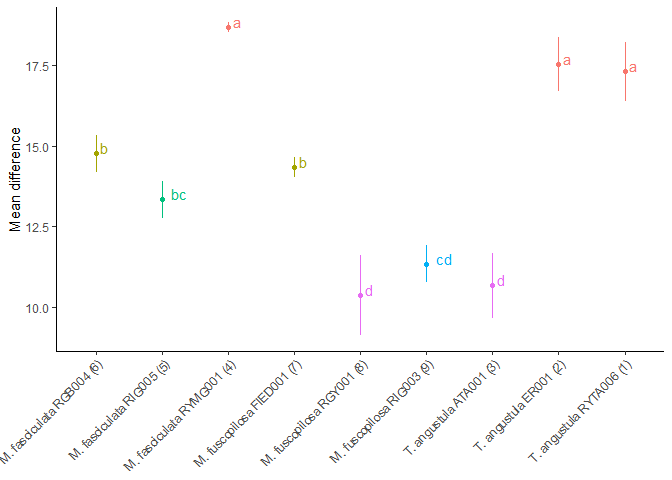
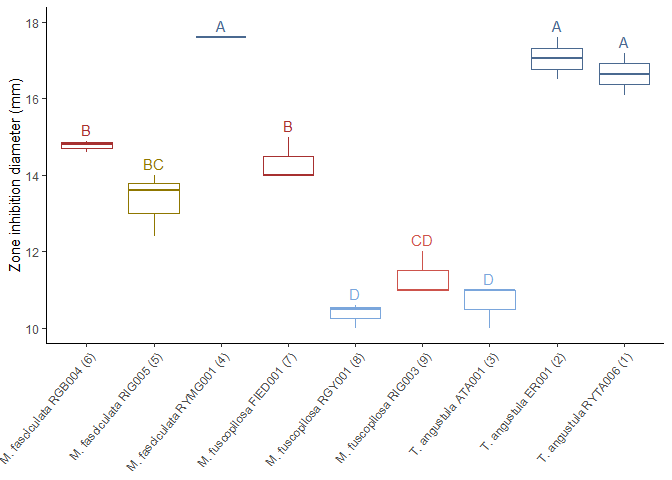
Antimicrobial update

diff --git a/Antimicrobial_activity-Statistics.md b/Antimicrobial_activity-Statistics.md
@@ -357,20 +357,21 @@ tukey_pm100 <- HSD.test(modelo_pm100, "all_bacteria$Group",
 
 ``` r
 # Plotting result
-ggplot(tukey_pm100$groups,
-                   aes(rownames(tukey_pm100[["groups"]]),
-                       tukey_pm100$groups$`all_bacteria$P_mirabilis_100`,
-                       color = tukey_pm100[["groups"]][["groups"]],
-                       label = tukey_pm100[["groups"]][["groups"]])) +
-  geom_point() +
-  geom_text(hjust = -0.6, vjust = 0) +
-  geom_errorbar(aes(ymin = tukey_pm100$groups$`all_bacteria$P_mirabilis_100`-tukey_pm100[["means"]][["std"]],
-                    ymax = tukey_pm100$groups$`all_bacteria$P_mirabilis_100`+tukey_pm100[["means"]][["std"]]),
-                width = 0, position = position_dodge(0.05)) +
+ggplot(all_bacteria,
+                   aes(all_bacteria$Group,
+                       all_bacteria$P_mirabilis_100,
+                       color = all_bacteria$Group)) +
+  scale_color_manual(values=c("#A73030", "#8F7700", "#4A6990",
+                              "#A73030", "#7AA6DC", "#CD534C", "#7AA6DC",
+                              "#4A6990", "#4A6990")) +
+  geom_boxplot() + ylim(10, 18) +
+  stat_summary(geom = 'text',
+               label = c("B","BC","A","B","D","CD","D","A","A"),
+               fun.y = max, vjust = -0.5) +
   theme_classic() +
-  labs(x = NULL, y = "Mean difference") +
+  labs(x = NULL, y = "Zone inhibition diameter (mm)") +
   theme(plot.title = element_text(face = "italic"),
-        axis.text.x = element_text(angle = 45, hjust = 1)) +
+        axis.text.x = element_text(angle = 50, hjust = 1)) +
   theme(legend.position="none")
 ```
 
@@ -1130,6 +1131,28 @@ cldList(P.adj ~ Comparison,
     ## 9   T.angustulaRYTA6(1)    abc        abc
 
 ``` r
+# Plotting result
+ggplot(all_bacteria,
+                   aes(all_bacteria$Group,
+                       all_bacteria$E_coli_100,
+                       color = all_bacteria$Group)) +
+  scale_color_manual(values=c("#8F7700", "#8F7700", "#4A6990",
+                              "#8F7700", "#A73030", "#CD534C", "#8F7700",
+                              "#7AA6DC", "#8F7700")) +
+  geom_boxplot() +
+  stat_summary(geom = 'text',
+               label = c("abc","abc","a","abc","b","bc","abc","ac","abc"),
+               fun.y = max, vjust = -0.5) +
+  theme_classic() +
+  labs(x = NULL, y = "Zone inhibition diameter (mm)") +
+  theme(plot.title = element_text(face = "italic"),
+        axis.text.x = element_text(angle = 50, hjust = 1)) +
+  theme(legend.position="none")
+```
+
+![](Antimicrobial_activity-Statistics_files/figure-gfm/unnamed-chunk-7-1.png)<!-- -->
+
+``` r
 # Dunn test of S. aureus (Honey at 100 % v/v)
 dunn.test(all_bacteria$S_aureus_100, all_bacteria$Group, method = "bh", list = TRUE, table = FALSE)
 ```
@@ -1208,6 +1231,28 @@ cldList(P.adj ~ Comparison,
     ## 9   T.angustulaRYTA6(1)     ab        ab
 
 ``` r
+# Plotting result
+ggplot(all_bacteria,
+                   aes(all_bacteria$Group,
+                       all_bacteria$S_aureus_100,
+                       color = all_bacteria$Group)) +
+  scale_color_manual(values=c("#A73030", "#8F7700", "#4A6990",
+                              "#8F7700", "#7AA6DC", "#CD534C", "#8F7700",
+                              "#8F7700", "#A73030")) +
+  geom_boxplot() +
+  stat_summary(geom = 'text',
+               label = c("ab","abc","a","abc","c","bc","abc","abc","ab"),
+               fun.y = max, vjust = -0.5) +
+  theme_classic() +
+  labs(x = NULL, y = "Zone inhibition diameter (mm)") +
+  theme(plot.title = element_text(face = "italic"),
+        axis.text.x = element_text(angle = 50, hjust = 1)) +
+  theme(legend.position="none")
+```
+
+![](Antimicrobial_activity-Statistics_files/figure-gfm/unnamed-chunk-7-2.png)<!-- -->
+
+``` r
 # Dunn test of K. pneumoniae (Honey at 100 % v/v)
 dunn.test(all_bacteria$K_pneumonia_100, all_bacteria$Group, method = "bh", list = TRUE, table = FALSE)
 ```
@@ -1284,3 +1329,25 @@ cldList(P.adj ~ Comparison,
     ## 7    T.angustulaATA1(3)      b          b
     ## 8     T.angustulaER1(2)     ab         ab
     ## 9   T.angustulaRYTA6(1)     ab         ab
+
+``` r
+# Plotting result
+ggplot(all_bacteria,
+                   aes(all_bacteria$Group,
+                       all_bacteria$K_pneumonia_100,
+                       color = all_bacteria$Group)) +
+  scale_color_manual(values=c("#4A6990", "#CD534C", "#CD534C",
+                              "#CD534C", "#CD534C", "#CD534C", "#A73030",
+                              "#CD534C", "#CD534C")) +
+  geom_boxplot() + ylim(8, 16.2) +
+  stat_summary(geom = 'text',
+               label = c("a","ab","ab","ab","ab","ab","b","ab","ab"),
+               fun.y = max, vjust = -0.5) +
+  theme_classic() +
+  labs(x = NULL, y = "Zone inhibition diameter (mm)") +
+  theme(plot.title = element_text(face = "italic"),
+        axis.text.x = element_text(angle = 50, hjust = 1)) +
+  theme(legend.position="none")
+```
+
+![](Antimicrobial_activity-Statistics_files/figure-gfm/unnamed-chunk-7-3.png)<!-- -->
